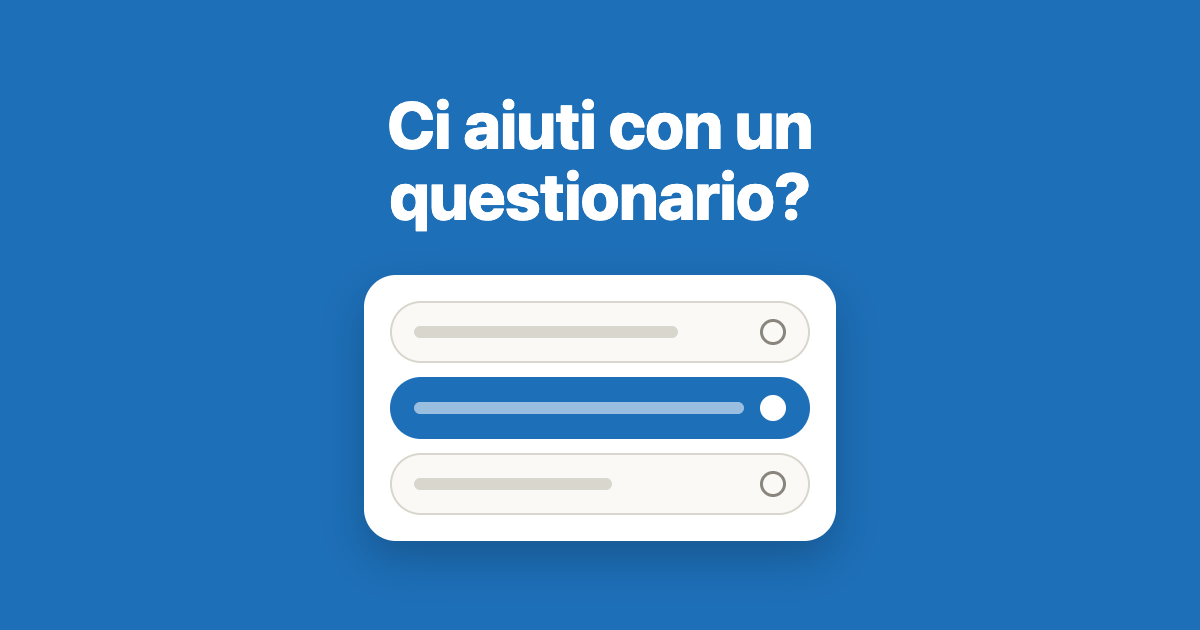
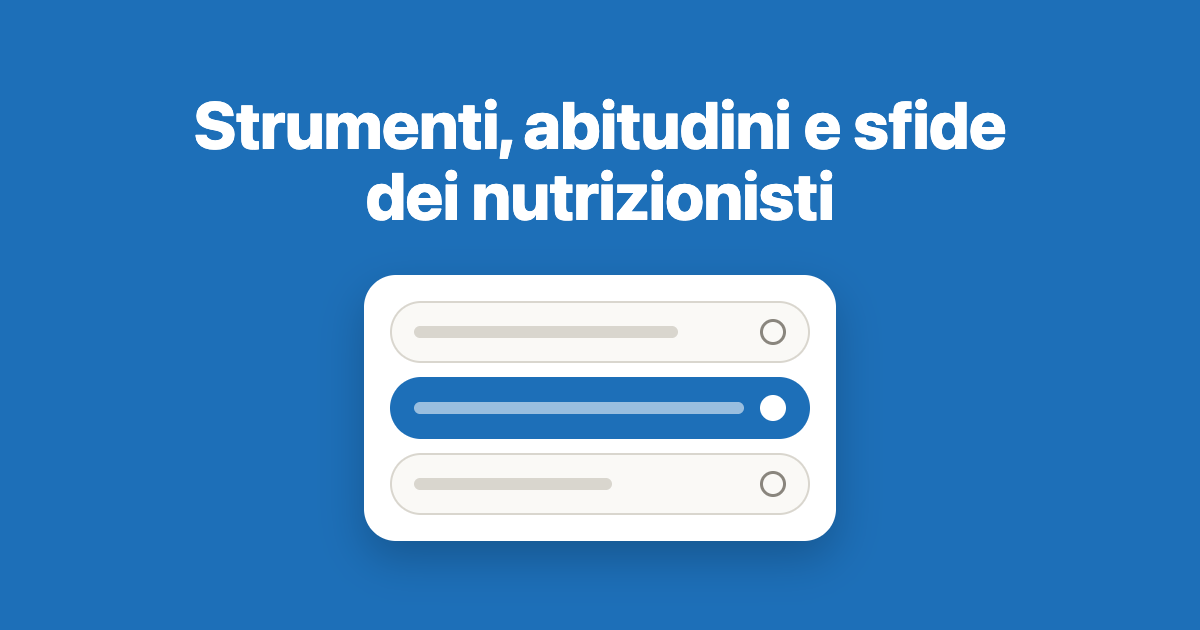
fix: changes the survey link preview title to the nutritionists survey

Changed region(s): [[0.1542, 0.1508, 0.8633, 0.2413], [0.3083, 0.2714, 0.7092, 0.3619]]

diff --git a/q.html b/q.html
@@ -14,12 +14,12 @@
     <meta name="description" content="Le risposte sono anonime e all'inizio trovi quanto tempo serve." />
     <meta property="og:type" content="website" />
     <meta property="og:site_name" content="Questionario" />
-    <meta property="og:title" content="Ci aiuti con un questionario?" />
+    <meta property="og:title" content="Strumenti, abitudini e sfide dei nutrizionisti" />
     <meta property="og:description" content="Le risposte sono anonime e all'inizio trovi quanto tempo serve." />
     <meta property="og:image" content="https://salvo27.github.io/ai-deep-endenti/assets/img/anteprima-questionario.png" />
     <meta property="og:image:width" content="1200" />
     <meta property="og:image:height" content="630" />
-    <meta property="og:image:alt" content="Una scheda con una domanda a scelta e il testo: Ci aiuti con un questionario?" />
+    <meta property="og:image:alt" content="Una scheda con una domanda a scelta e il testo: Strumenti, abitudini e sfide dei nutrizionisti" />
     <meta property="og:locale" content="it_IT" />
     <meta name="twitter:card" content="summary_large_image" />
     <link rel="icon" href="assets/favicon.svg" type="image/svg+xml" />
